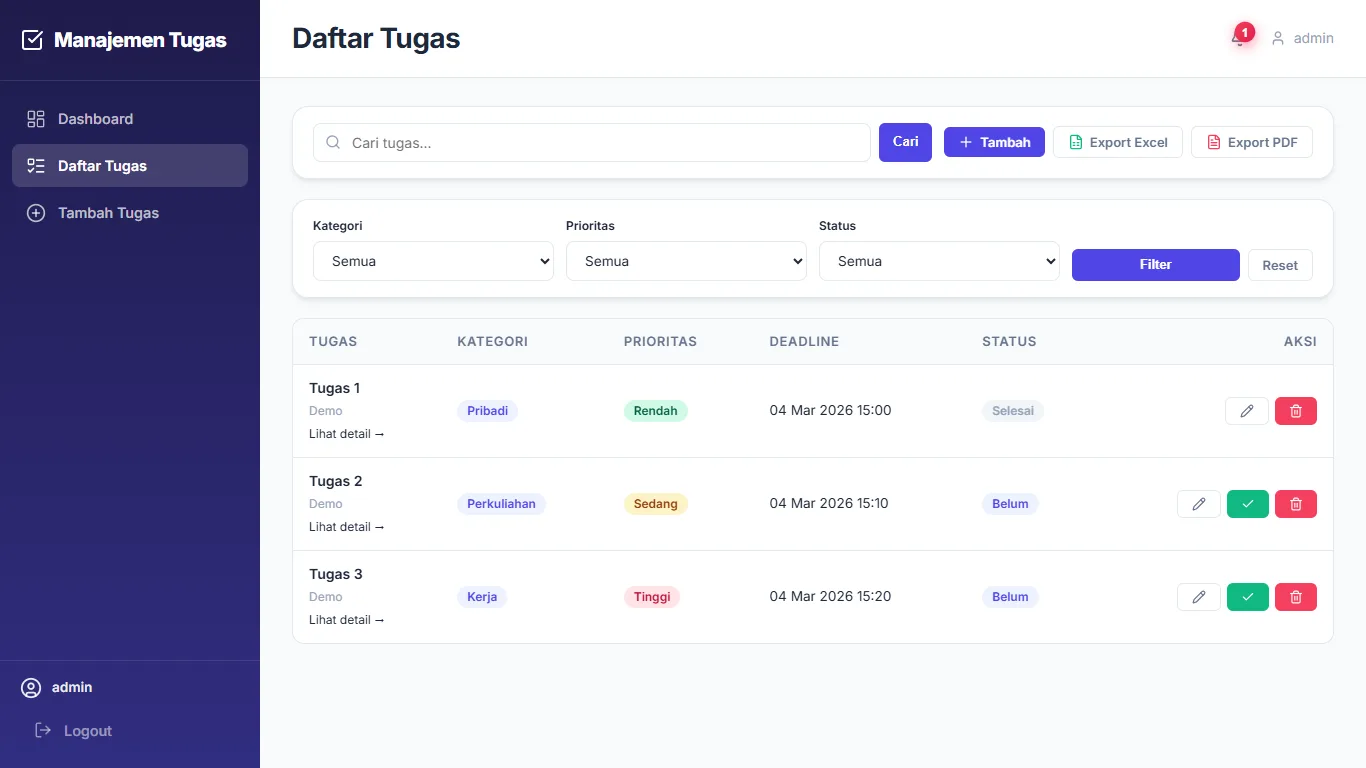
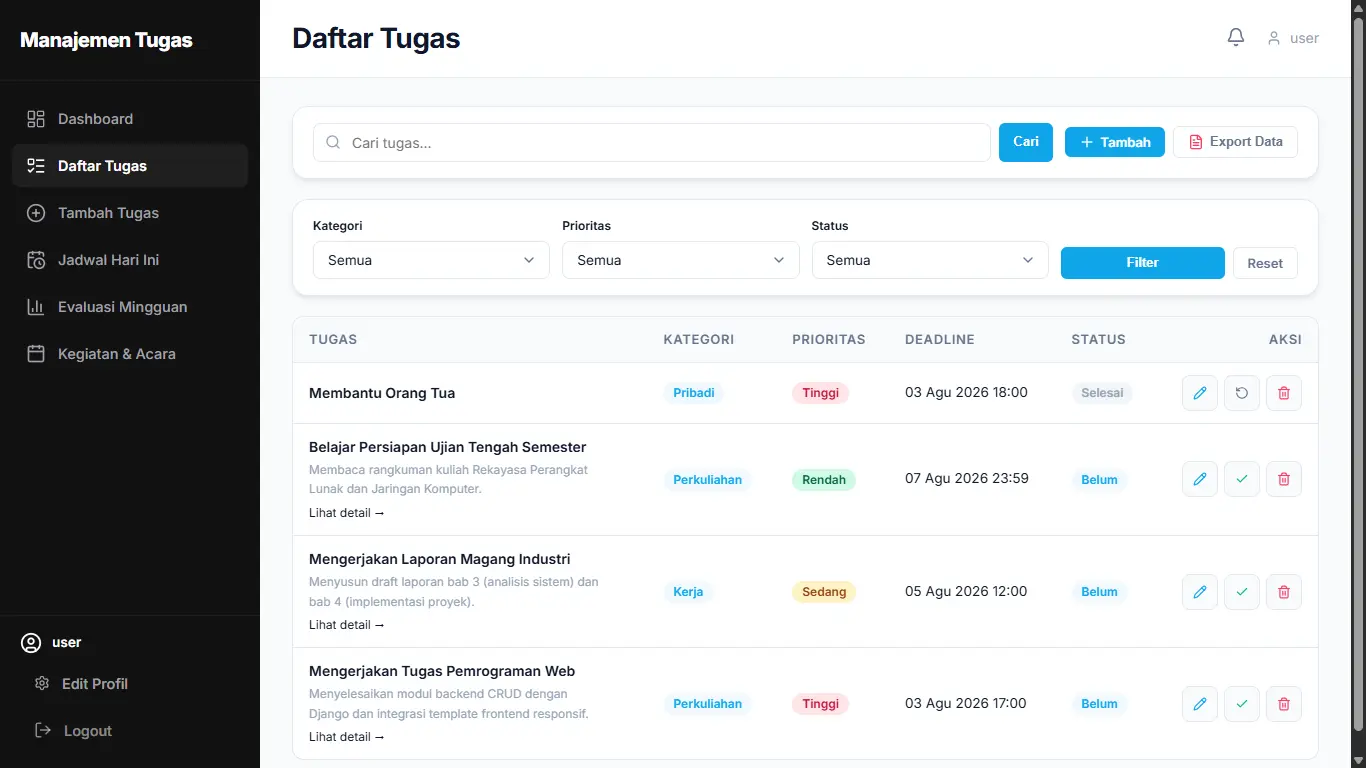
update preview website

diff --git a/src/data/portfolioData.js b/src/data/portfolioData.js
@@ -31,7 +31,7 @@ export const personalInfo = {
   majorEn: 'Informatics Engineering',
   email: 'yunusfirdauss123@gmail.com',
   bioShort:
-    'Saya adalah individu yang teliti dan bermotivasi tinggi dengan pengalaman sebagai IT Support serta Teknisi Hardware dalam pemeliharaan perangkat dan infrastruktur jaringan.',
+    'Saya adalah individu yang teliti dan bermotivasi tinggi dalam bekerja dengan pengalaman sebagai IT Support serta Teknisi Hardware dalam pemeliharaan perangkat dan infrastruktur jaringan. Memiliki minat yang mendalam dalam pengembangan teknologi web, cloud computing, machine learning, serta artificial intelligence (AI) untuk terus berkembang di industri teknologi modern.',
   bioLong:
     'Didukung keahlian dalam membangun aplikasi web fungsional serta kemampuan memanfaatkan teknologi AI untuk meningkatkan efisiensi kerja, saya siap memberikan kontribusi yang inovatif dan efektif bagi perusahaan, baik secara tim maupun individu.',
 };
@@ -61,11 +61,11 @@ export const iconMap = {
 /* ─── Projects ─── */
 export const projects = [
   {
-    image: `${BASE_URL}/Images/manajemen-tugas/Dashboard.webp`,
+    image: `${BASE_URL}/Images/manajemen-tugas/Dashboard_1.webp`,
     titleId: 'Website Manajemen Tugas',
     titleEn: 'Task Management Website',
-    shortDescId: 'Website manajemen tugas menggunakan Framework Django dan database SQLite.',
-    shortDescEn: 'A task management website built with Django Framework and SQLite database.',
+    shortDescId: 'Aplikasi manajemen tugas berbasis Django dan SQLite yang dibuat untuk mengatasi masalah produktivitas pribadi yang tidak teratur dan sulitnya menentukan skala prioritas tugas harian sebelum adanya pelacakan otomatis. Solusi ini menyediakan pencatatan tugas terstruktur, notifikasi deadline, serta dashboard statistik untuk memantau progress secara real-time.',
+    shortDescEn: 'A Django and SQLite-based task management web application built to address the challenges of unorganized personal productivity and the difficulty of managing daily task priorities before automated tracking. This solution provides structured task logging, deadline notifications, and a statistics dashboard to monitor progress in real-time.',
     semester: 'Semester 4',
     year: '2025',
     courseId: 'Project Mandiri',
@@ -74,35 +74,42 @@ export const projects = [
     typeEn: 'Individual',
     featuresId: [
       'Autentikasi pengguna (Register, Login, Logout)',
-      'Dashboard statistik tugas dengan grafik & progress bar',
-      'CRUD manajemen tugas',
-      'Filter & pencarian tugas',
-      'Notifikasi tugas mendekati deadline',
+      'Dashboard statistik & progress tugas dengan grafik interaktif',
+      'CRUD manajemen daftar & detail tugas',
+      'Penjadwalan tugas harian (Jadwal Hari Ini)',
+      'Evaluasi mingguan kinerja & status tugas',
+      'Manajemen agenda kegiatan acara terstruktur',
+      'Notifikasi pengingat tugas mendekati deadline',
     ],
     featuresEn: [
       'User authentication (Register, Login, Logout)',
-      'Task statistics dashboard with charts & progress bar',
-      'Task management CRUD',
-      'Task filtering & search',
-      'Deadline approaching notifications',
+      'Statistics dashboard & task progress with interactive charts',
+      'CRUD management of task list & details',
+      'Daily task scheduling (Today\'s Schedule)',
+      'Weekly evaluation of performance & task status',
+      'Structured event calendar and activities management',
+      'Deadline reminder notifications for approaching tasks',
     ],
     demoLink: 'https://muhammadyunus.pythonanywhere.com/tugas/login/',
     githubLink: 'https://github.com/muhammad-yunus-firdaus',
     technologies: ['Python', 'Django', 'SQLite', 'HTML', 'CSS', 'JavaScript'],
     previewImages: [
       `${BASE_URL}/Images/manajemen-tugas/Login.webp`,
-      `${BASE_URL}/Images/manajemen-tugas/Dashboard.webp`,
-      `${BASE_URL}/Images/manajemen-tugas/Daftar_Tugas.webp`,
-      `${BASE_URL}/Images/manajemen-tugas/Tambah_Tugas.webp`,
-      `${BASE_URL}/Images/manajemen-tugas/Detail_Tugas.webp`,
+      `${BASE_URL}/Images/manajemen-tugas/Dashboard_1.webp`,
+      `${BASE_URL}/Images/manajemen-tugas/Dashboard_2.webp`,
+      `${BASE_URL}/Images/manajemen-tugas/Daftar_tugas.webp`,
+      `${BASE_URL}/Images/manajemen-tugas/Detail_tugas.webp`,
+      `${BASE_URL}/Images/manajemen-tugas/Jadwal_hari_ini.webp`,
+      `${BASE_URL}/Images/manajemen-tugas/Evaluasi_mingguan.webp`,
+      `${BASE_URL}/Images/manajemen-tugas/Kegiatan_acara.webp`,
     ],
   },
   {
     image: `${BASE_URL}/Images/futsal/admin/Kelola_Lapangan_Admin.webp`,
     titleId: 'Website Pemesanan Lapangan Futsal',
     titleEn: 'Futsal Court Booking Website',
-    shortDescId: 'Aplikasi web pemesanan lapangan futsal menggunakan Framework Laravel dan database MySQL.',
-    shortDescEn: 'A futsal court booking web application built with Laravel Framework and MySQL database.',
+    shortDescId: 'Aplikasi web pemesanan lapangan futsal berbasis Laravel dan MySQL yang dibuat untuk menggantikan proses pemesanan manual yang sering memicu jadwal bentrok dan ketidakpastian ketersediaan lapangan. Solusi ini menyediakan sistem pemesanan online real-time dengan multi-role (Admin & User), manajemen jadwal transparan, serta pengelolaan data lapangan terpusat.',
+    shortDescEn: 'A Laravel and MySQL-based futsal court booking web application built to replace manual booking processes that often cause scheduling conflicts and availability uncertainty. This solution provides a real-time online booking system with multi-role access (Admin & User), transparent schedule management, and centralized court data control.',
     semester: 'Semester 3',
     year: '2024',
     courseId: 'Pemrograman Web',
@@ -158,11 +165,11 @@ export const projects = [
     ],
   },
   {
-    image: `${BASE_URL}/Images/klasifikasi-sepatu/thumbnail.jpg`,
+    image: `${BASE_URL}/Images/klasifikasi-sepatu/1.webp`,
     titleId: 'Klasifikasi Sepatu dengan CNN',
     titleEn: 'Shoe Classification with CNN',
-    shortDescId: 'Sistem cerdas yang mengidentifikasi merek sepatu melalui pemrosesan gambar dengan akurasi 93%.',
-    shortDescEn: 'An intelligent system that identifies shoe brands through image processing with 93% accuracy.',
+    shortDescId: 'Sistem cerdas berbasis CNN MobileNet dan TensorFlow yang dirancang untuk mengatasi lambatnya proses identifikasi dan klasifikasi manual merek sepatu pada inventaris atau e-commerce. Model ini otomatis mengenali merek sepatu melalui pemrosesan gambar dengan akurasi pengujian mencapai > 90%.',
+    shortDescEn: 'An intelligent system based on CNN MobileNet and TensorFlow designed to address the slow process of manual identification and classification of shoe brands in inventory or e-commerce. This model automatically recognizes shoe brands through image processing with a testing accuracy of > 90%.',
     semester: 'Semester 4',
     year: '2025',
     courseId: 'Pengolahan Citra Digital',
@@ -172,24 +179,35 @@ export const projects = [
     featuresId: [
       'Mengidentifikasi merek sepatu (Nike, Adidas, Converse)',
       'Model klasifikasi menggunakan CNN MobileNet',
-      'Akurasi pengujian mencapai 93%',
+      'Akurasi pengujian mencapai > 90%',
     ],
     featuresEn: [
       'Identifies shoe brands (Nike, Adidas, Converse)',
       'Classification model using CNN MobileNet',
-      'Achieved 93% testing accuracy',
+      'Achieved > 90% testing accuracy',
     ],
     demoLink: null,
     githubLink: 'https://github.com/muhammad-yunus-firdaus',
     technologies: ['Python', 'TensorFlow', 'MobileNet', 'CNN'],
-    previewImages: [],
+    previewImages: [
+      `${BASE_URL}/Images/klasifikasi-sepatu/1.webp`,
+      `${BASE_URL}/Images/klasifikasi-sepatu/2.webp`,
+      `${BASE_URL}/Images/klasifikasi-sepatu/Model_loss_2.1.webp`,
+      `${BASE_URL}/Images/klasifikasi-sepatu/Model_accuracy_2.2.webp`,
+      `${BASE_URL}/Images/klasifikasi-sepatu/3.webp`,
+      `${BASE_URL}/Images/klasifikasi-sepatu/4.webp`,
+      `${BASE_URL}/Images/klasifikasi-sepatu/Confusion_matrix_4.1.webp`,
+      `${BASE_URL}/Images/klasifikasi-sepatu/5.webp`,
+      `${BASE_URL}/Images/klasifikasi-sepatu/6.webp`,
+      `${BASE_URL}/Images/klasifikasi-sepatu/7.webp`,
+    ],
   },
   {
     image: `${BASE_URL}/Images/deteksi-tomat/thumbnail.jpg`,
     titleId: 'Deteksi & Penghitungan Buah Tomat',
     titleEn: 'Tomato Detection & Counting',
-    shortDescId: 'Sistem deteksi berbasis YOLOv8 untuk menghitung hasil produksi tomat melalui kamera.',
-    shortDescEn: 'A YOLOv8-based detection system for counting tomato production yield through camera.',
+    shortDescId: 'Sistem deteksi berbasis YOLOv8, OpenCV, dan Python yang dibangun untuk menggantikan penghitungan manual hasil produksi tomat pasca-panen yang memakan waktu lama dan rentan terhadap kesalahan manusia. Solusi ini memungkinkan pendeteksian dan penghitungan jumlah buah tomat secara otomatis dan real-time melalui kamera perangkat untuk meningkatkan efisiensi operasional.',
+    shortDescEn: 'A YOLOv8, OpenCV, and Python-based detection system built to replace the time-consuming and human-error-prone manual counting of post-harvest tomato yields. This solution enables automated and real-time detection and counting of tomatoes through device cameras to improve operational efficiency.',
     semester: 'Semester 5',
     year: '2026',
     courseId: 'Kecerdasan Buatan',

diff --git a/src/data/locales.js b/src/data/locales.js
@@ -64,7 +64,7 @@ const locales = {
 
         /* ─── Bio ─── */
         bioShort:
-            'Saya adalah individu yang teliti dan bermotivasi tinggi dengan pengalaman sebagai IT Support serta Teknisi Hardware dalam pemeliharaan perangkat dan infrastruktur jaringan.',
+            'Saya adalah individu yang teliti dan bermotivasi tinggi dalam bekerja dengan pengalaman sebagai IT Support serta Teknisi Hardware dalam pemeliharaan perangkat dan infrastruktur jaringan. Memiliki minat yang mendalam dalam pengembangan teknologi web, cloud computing, machine learning, serta artificial intelligence (AI) untuk terus berkembang di industri teknologi modern.',
         bioLong:
             'Didukung keahlian dalam membangun aplikasi web fungsional serta kemampuan memanfaatkan teknologi AI untuk meningkatkan efisiensi kerja, saya siap memberikan kontribusi yang inovatif dan efektif bagi perusahaan, baik secara tim maupun individu.',
     },
@@ -134,7 +134,7 @@ const locales = {
 
         /* ─── Bio ─── */
         bioShort:
-            'I am a detail-oriented and highly motivated individual with experience as an IT Support Specialist and Hardware Technician, handling device maintenance and network infrastructure.',
+            'I am a detail-oriented and highly motivated individual in my work, with experience as an IT Support Specialist and Hardware Technician in device maintenance and network infrastructure. I have a deep interest in web development, cloud computing, machine learning, and artificial intelligence (AI) to continuously grow in the modern technology industry.',
         bioLong:
             'Equipped with skills in building functional web applications and leveraging AI technologies to improve efficiency, I am ready to make an innovative and effective contribution to the company, both in a team and individually.',
     },

diff --git a/src/components/Projects.jsx b/src/components/Projects.jsx
@@ -243,7 +243,7 @@ function DetailModal({ project, onClose, onPreview, lang }) {
                     {features && features.length > 0 && (
                         <div>
                             <h4 className="text-sm font-semibold text-white mb-2">
-                                {lang === 'id' ? 'Fitur Utama' : 'Key Features'}
+                                {lang === 'id' ? 'Fitur' : 'Features'}
                             </h4>
                             <ul className="list-disc list-outside pl-4 space-y-1">
                                 {features.map((feat, i) => (
